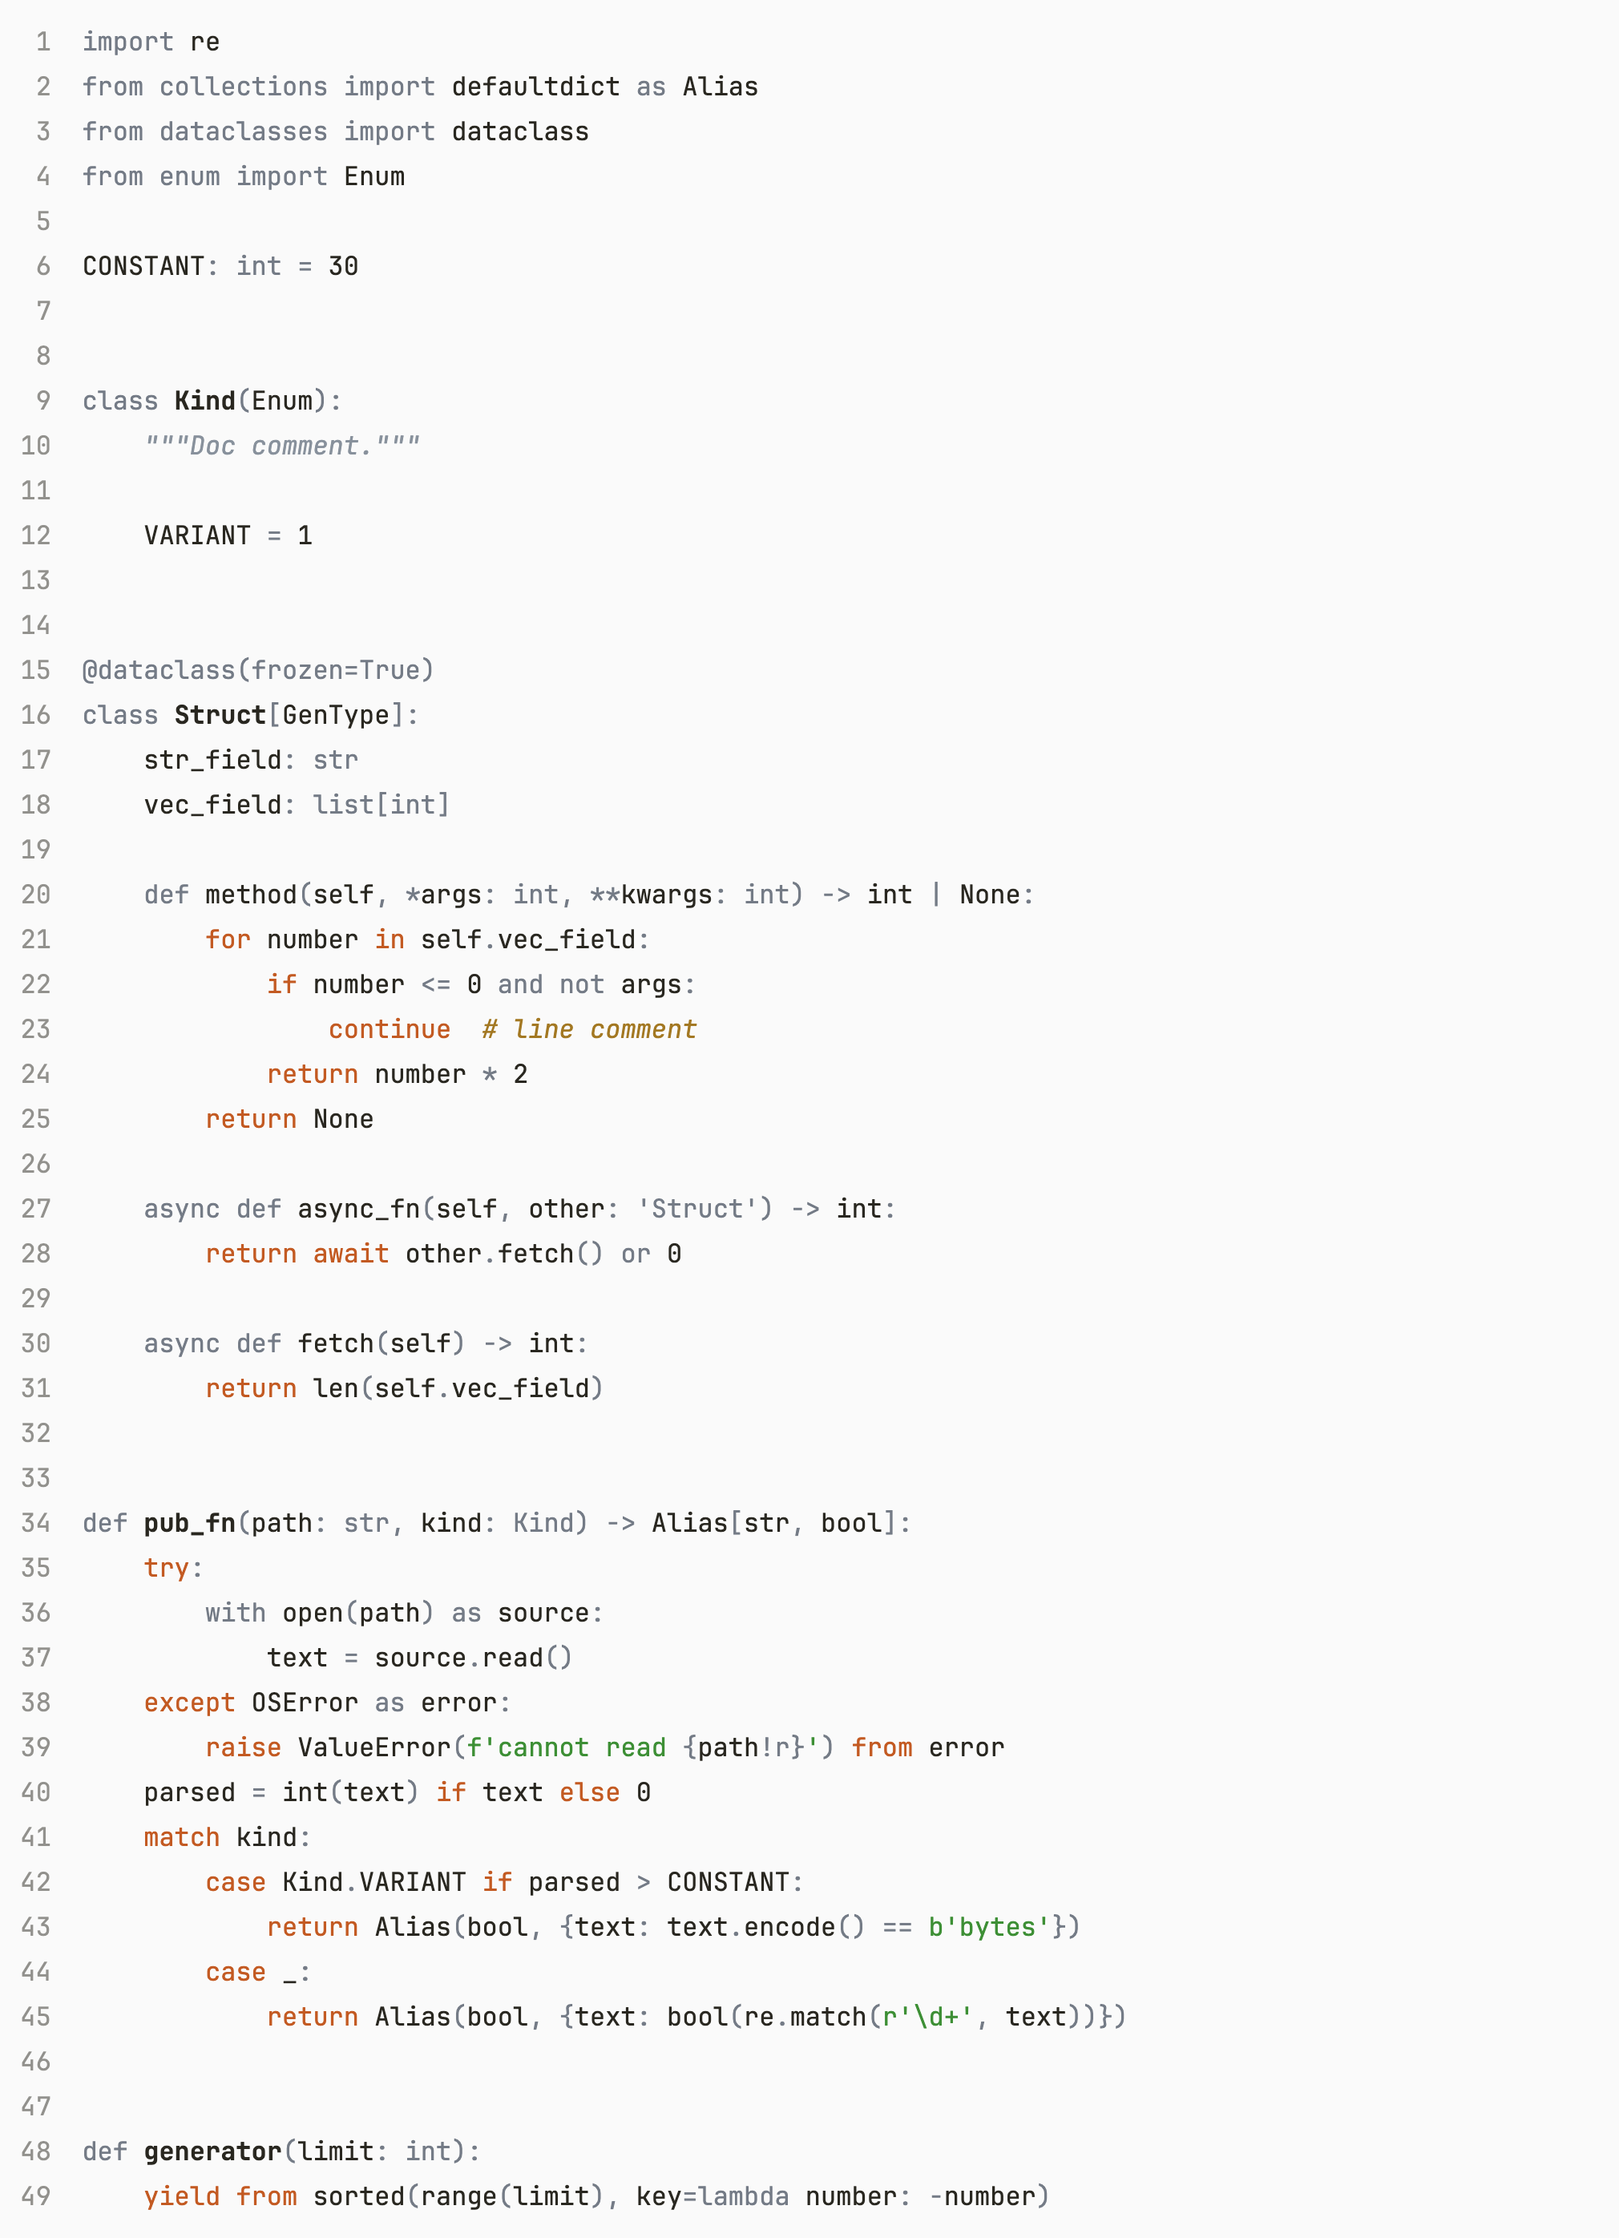
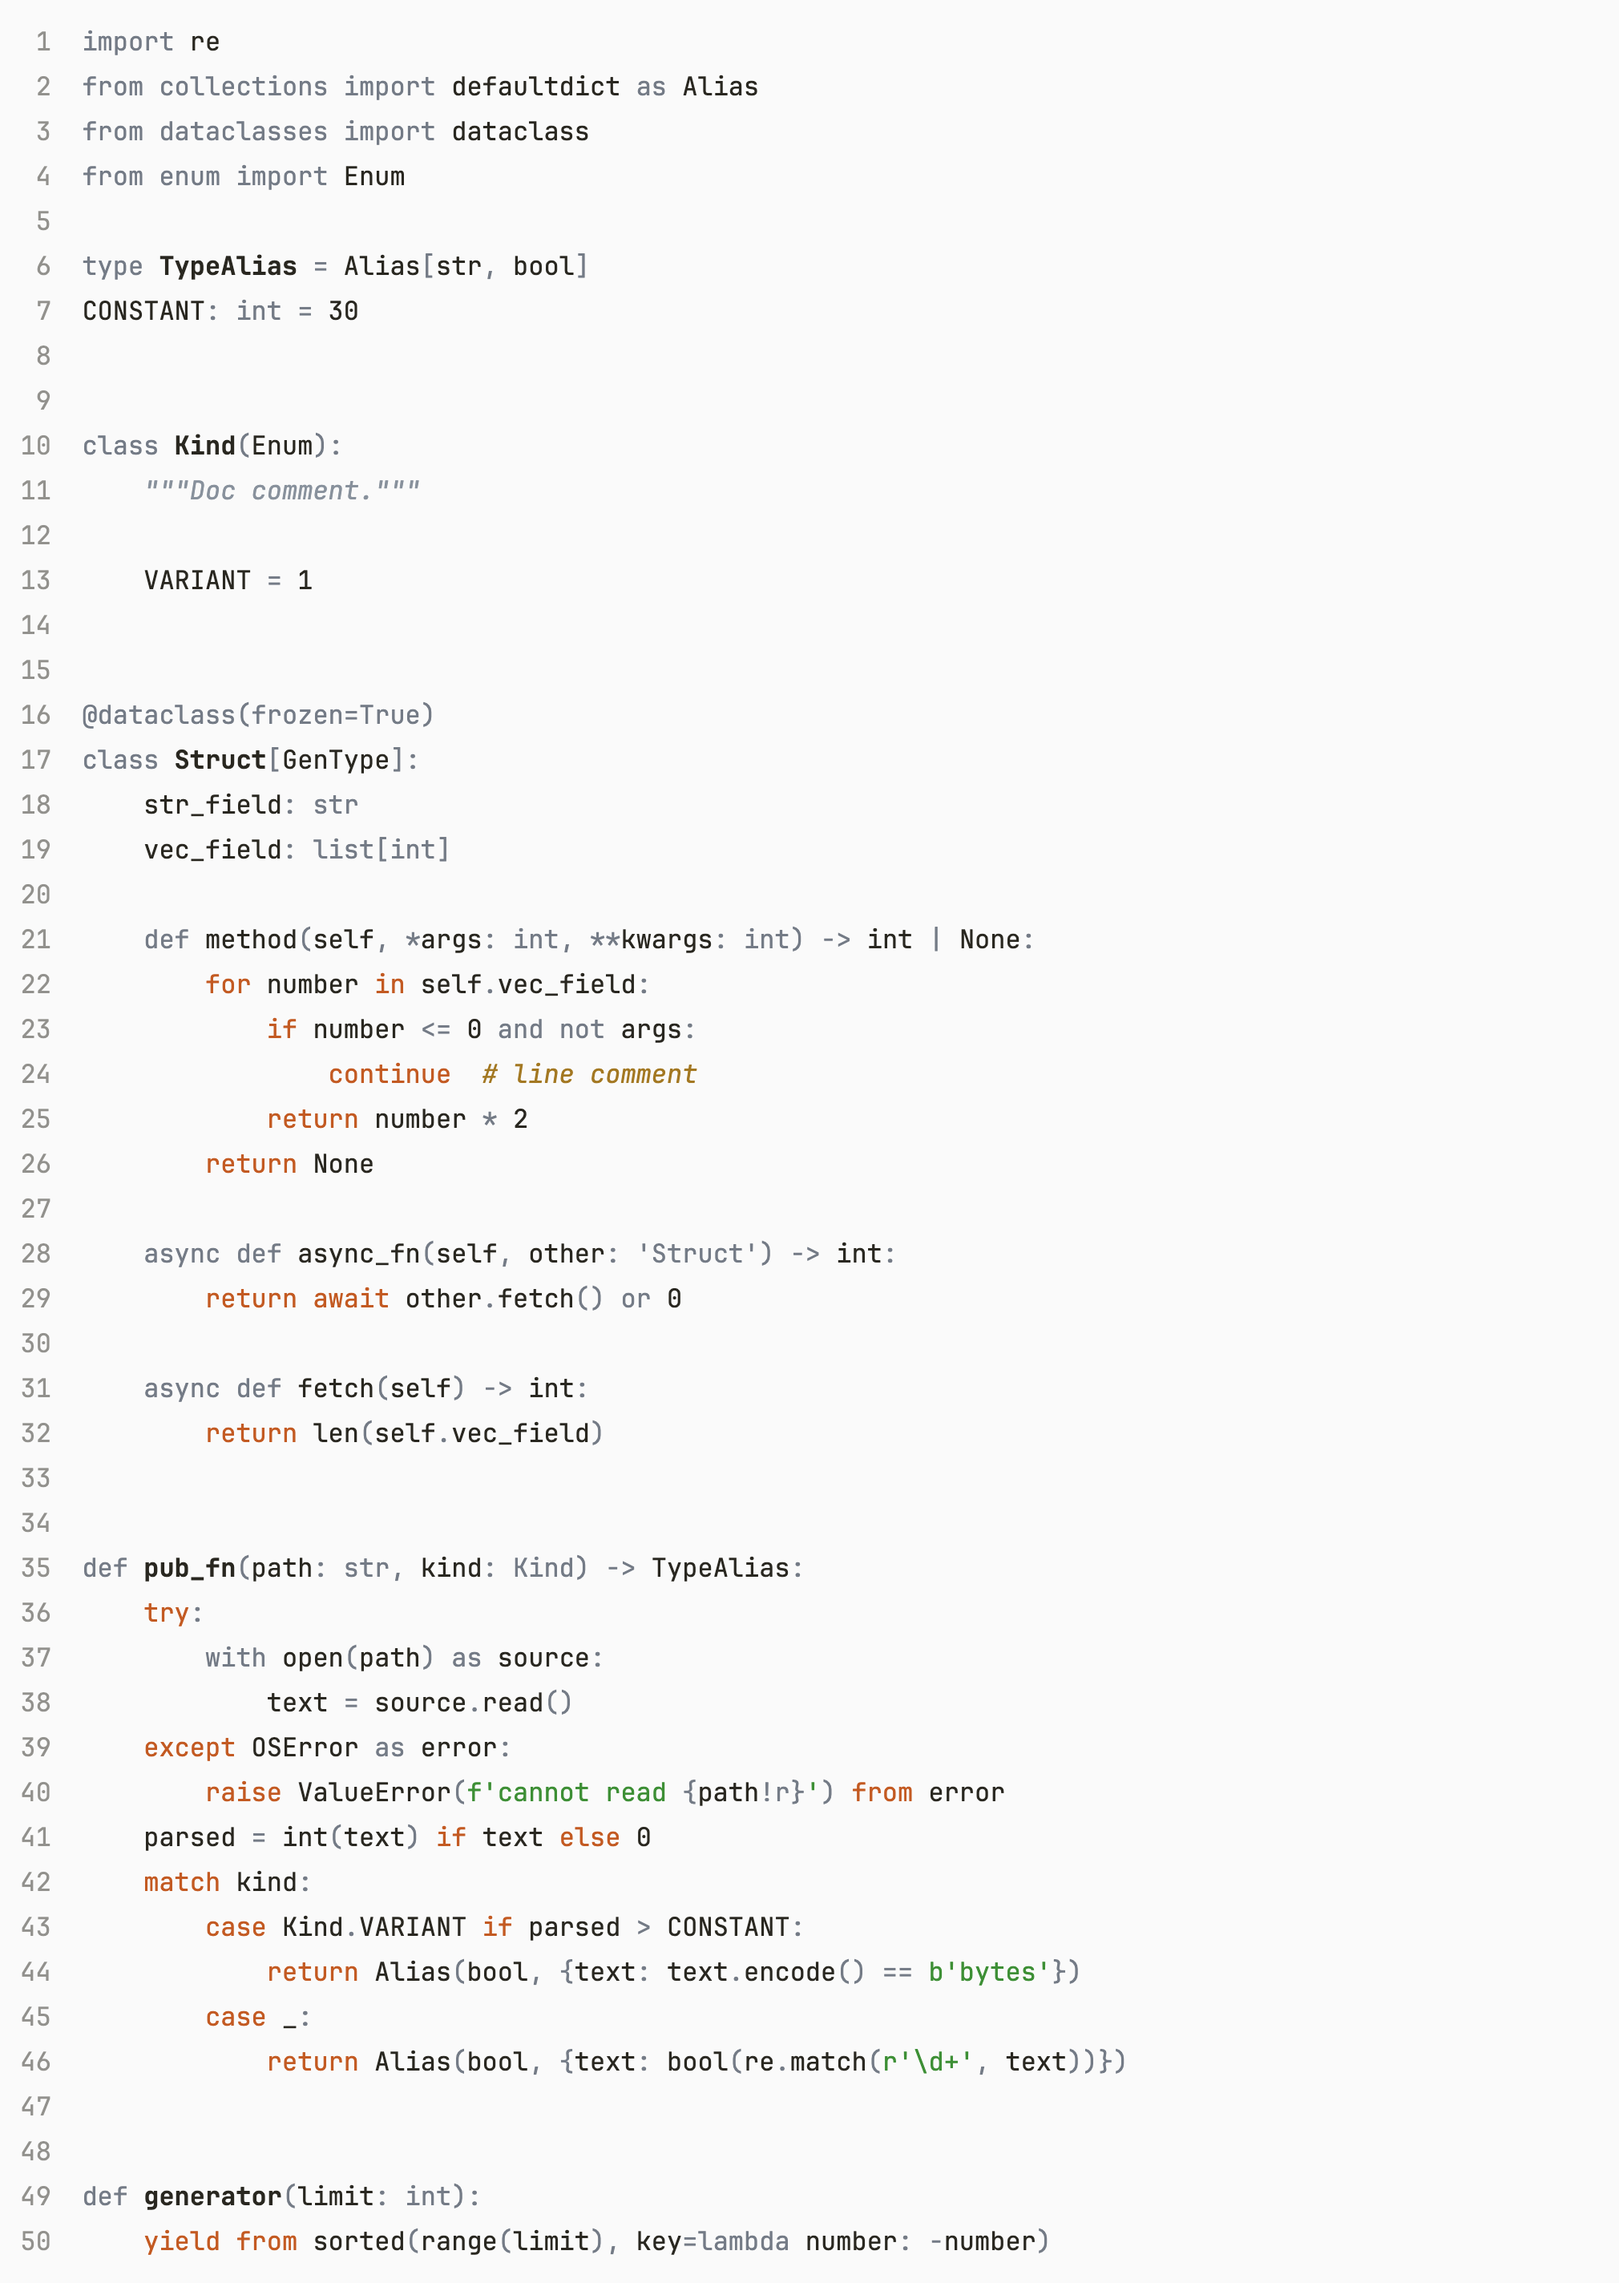
Separate README samples, extend Python sample (#43)

diff --git a/tools/render.js b/tools/render.js
@@ -16,8 +16,8 @@ const VSCODE_EXTENSIONS = 'https://raw.githubusercontent.com/microsoft/vscode/1.
 const CHROME = '/Applications/Google Chrome.app/Contents/MacOS/Google Chrome';
 
 const languages = {
-  rust: { scope: 'source.rust', grammar: 'rust/syntaxes/rust.tmLanguage.json', sample: 'rust/sample.rs', injections: ['rust'] },
-  python: { scope: 'source.python', grammar: 'python/syntaxes/MagicPython.tmLanguage.json', sample: 'python/sample.py', injections: ['python', 'python-parameters'] },
+  rust: { scope: 'source.rust', grammar: 'rust/syntaxes/rust.tmLanguage.json', sample: 'rust/readme.rs', injections: ['rust'] },
+  python: { scope: 'source.python', grammar: 'python/syntaxes/MagicPython.tmLanguage.json', sample: 'python/readme.py', injections: ['python', 'python-parameters'] },
   sql: { scope: 'source.sql', grammar: 'sql/syntaxes/sql.tmLanguage.json', sample: 'sql/sample.sql', injections: ['sql', 'jinja'] },
   dbt: { scope: 'source.sql', grammar: 'sql/syntaxes/sql.tmLanguage.json', sample: 'dbt/sample.sql', injections: ['sql', 'jinja'] },
 }[language];
@@ -73,6 +73,7 @@ const WIDTH = 1010;
   const grammar = await registry.loadGrammar(languages.scope);
   const colorMap = registry.getColorMap();
   const lines = fs.readFileSync(path.join(ROOT, 'sample', languages.sample), 'utf8').replace(/\n$/, '').split('\n');
+  if (languages.sample.includes('readme.') && lines.length !== 50) throw new Error(`${languages.sample}: ${lines.length} lines, README samples need 50`);
   let ruleStack = vsctm.INITIAL;
   const rows = lines.map((line, index) => {
     const { tokens, ruleStack: next } = grammar.tokenizeLine2(line, ruleStack);

diff --git a/sample/python/sample.py b/sample/python/sample.py
@@ -1,7 +1,12 @@
 import re
 from collections import defaultdict as Alias
+from collections.abc import AsyncIterator, Callable
 from dataclasses import dataclass
 from enum import Enum
+from typing import Protocol
+
+type TypeAlias = Alias[str, bool]
+type Callback[**Spec, Output] = Callable[Spec, Output]
 
 CONSTANT: int = 30
 
@@ -12,8 +17,13 @@ class Kind(Enum):
     VARIANT = 1
 
 
+class Trait(Protocol):
+    def method(self) -> int | None: ...
+
+
 @dataclass(frozen=True)
-class Struct[GenType]:
+class Struct[GenType: Trait]:
+    gen_field: GenType
     str_field: str
     vec_field: list[int]
 
@@ -30,8 +40,17 @@ class Struct[GenType]:
     async def fetch(self) -> int:
         return len(self.vec_field)
 
+    async def drain(self, source: AsyncIterator[int]) -> list[int]:
+        drained: list[int] = []
+        async for number in source:
+            drained.append(number)
+        return drained
 
-def pub_fn(path: str, kind: Kind) -> Alias[str, bool]:
+    async def collect(self, source: AsyncIterator[int]) -> list[int]:
+        return [number async for number in source if number > 0]
+
+
+def pub_fn(path: str, kind: Kind) -> TypeAlias:
     try:
         with open(path) as source:
             text = source.read()
@@ -47,3 +66,17 @@ def pub_fn(path: str, kind: Kind) -> Alias[str, bool]:
 
 def generator(limit: int):
     yield from sorted(range(limit), key=lambda number: -number)
+
+
+def first_big(numbers: list[int]) -> int | None:
+    while numbers:
+        if (number := numbers[-1]) > CONSTANT:
+            break
+        del numbers[-1]
+    else:
+        return None
+    return number
+
+
+def test_constant_is_positive():
+    assert CONSTANT > 0

diff --git a/sample/python/readme.py b/sample/python/readme.py
@@ -1,0 +1,50 @@
+import re
+from collections import defaultdict as Alias
+from dataclasses import dataclass
+from enum import Enum
+
+type TypeAlias = Alias[str, bool]
+CONSTANT: int = 30
+
+
+class Kind(Enum):
+    """Doc comment."""
+
+    VARIANT = 1
+
+
+@dataclass(frozen=True)
+class Struct[GenType]:
+    str_field: str
+    vec_field: list[int]
+
+    def method(self, *args: int, **kwargs: int) -> int | None:
+        for number in self.vec_field:
+            if number <= 0 and not args:
+                continue  # line comment
+            return number * 2
+        return None
+
+    async def async_fn(self, other: 'Struct') -> int:
+        return await other.fetch() or 0
+
+    async def fetch(self) -> int:
+        return len(self.vec_field)
+
+
+def pub_fn(path: str, kind: Kind) -> TypeAlias:
+    try:
+        with open(path) as source:
+            text = source.read()
+    except OSError as error:
+        raise ValueError(f'cannot read {path!r}') from error
+    parsed = int(text) if text else 0
+    match kind:
+        case Kind.VARIANT if parsed > CONSTANT:
+            return Alias(bool, {text: text.encode() == b'bytes'})
+        case _:
+            return Alias(bool, {text: bool(re.match(r'\d+', text))})
+
+
+def generator(limit: int):
+    yield from sorted(range(limit), key=lambda number: -number)

diff --git a/sample/rust/readme.rs b/sample/rust/readme.rs
@@ -1,0 +1,50 @@
+use std::collections::HashMap as Alias;
+pub type TypeAlias = Alias<String, bool>;
+
+const CONSTANT: u32 = 30;
+
+/// Doc comment.
+#[derive(Debug, Clone)]
+pub struct Struct<'lifetime, GenType> {
+    pub gen_field: &'lifetime GenType,
+    pub vec_field: Vec<i64>,
+}
+
+pub enum Enum {
+    Variant { field: u32 },
+    Tuple(Vec<u8>),
+}
+
+pub unsafe trait Trait {
+    fn method(&self) -> Option<i64>;
+}
+
+impl<GenType: Trait> Struct<'_, GenType> {
+    pub async fn async_fn(param: &GenType) -> i64 {
+        async { param.method().unwrap_or(0) }.await
+    }
+}
+
+unsafe impl<GenType: Trait> Trait for Struct<'_, GenType> {
+    fn method(&self) -> Option<i64> {
+        for item in &self.vec_field {
+            if *item <= 0 {
+                continue; // line comment
+            }
+            return Some(*item);
+        }
+        None
+    }
+}
+
+pub fn pub_fn(param: &str, enum_value: crate::Enum) -> Result<TypeAlias, std::io::Error> {
+    let local: String = std::fs::read_to_string(param)?;
+    let parsed = local.parse::<u64>().unwrap_or(0);
+    let is_big = |value: u32| value > CONSTANT;
+    println!("parsed {parsed:?} from {}", param);
+    match enum_value {
+        Enum::Variant { field } if is_big(field) => todo!(),
+        _ => {}
+    }
+    Ok(Alias::new())
+}

diff --git a/sample/rust/sample.rs b/sample/rust/sample.rs
@@ -33,7 +33,7 @@ impl<GenType: Trait> Struct<'_, GenType> {
 
 impl<GenType> Trait for Struct<'_, GenType>
 where
-    GenType: Trait,
+    GenType: Trait + Sync,
 {
     type Item = Vec<u8>;
 

diff --git a/AGENTS.md b/AGENTS.md
@@ -20,6 +20,8 @@ Review a change: `cd vscode && npm run dev`, then open the sample, like `code sa
 
 README screenshots: re-render before a release, so the repo and the Marketplace do not show old colors: `cd tools && npm install && npm run render`. Nothing checks it. [tools/render.js](tools/render.js) tokenizes the samples with the VS Code grammars and this theme, then screenshots the HTML with headless Chrome.
 
+README screenshots render [sample/rust/readme.rs](sample/rust/readme.rs) and [sample/python/readme.py](sample/python/readme.py). Both must be exactly 50 lines, so the README rows match. `render.js` fails otherwise. Put the full syntax coverage in `sample.*`.
+
 PRs are squash-merged, the repo allows nothing else: `gh pr merge --squash`.
 
 Release: bump `version` in [vscode/package.json](vscode/package.json), merge, then push tag `v<version>` on `main`. [.github/workflows/publish.yml](.github/workflows/publish.yml) publishes to the Marketplace with `vsce publish --oidc` and to Open VSX with `ovsx publish --trusted-publishing`, no tokens.

diff --git a/sample/README.md b/sample/README.md
@@ -2,7 +2,9 @@
 
 Rendered with `cd tools && npm install && npm run render`.
 
-- Rust: [sample.rs](rust/sample.rs), [dark](rust/dark.png), [light](rust/light.png)
-- Python: [sample.py](python/sample.py), [dark](python/dark.png), [light](python/light.png)
+Rust and Python screenshots render `readme.*`, not `sample.*`.
+
+- Rust: [sample.rs](rust/sample.rs), [readme.rs](rust/readme.rs), [dark](rust/dark.png), [light](rust/light.png)
+- Python: [sample.py](python/sample.py), [readme.py](python/readme.py), [dark](python/dark.png), [light](python/light.png)
 - SQL: [sample.sql](sql/sample.sql), [dark](sql/dark.png), [light](sql/light.png)
 - dbt: [sample.sql](dbt/sample.sql), [dark](dbt/dark.png), [light](dbt/light.png)
